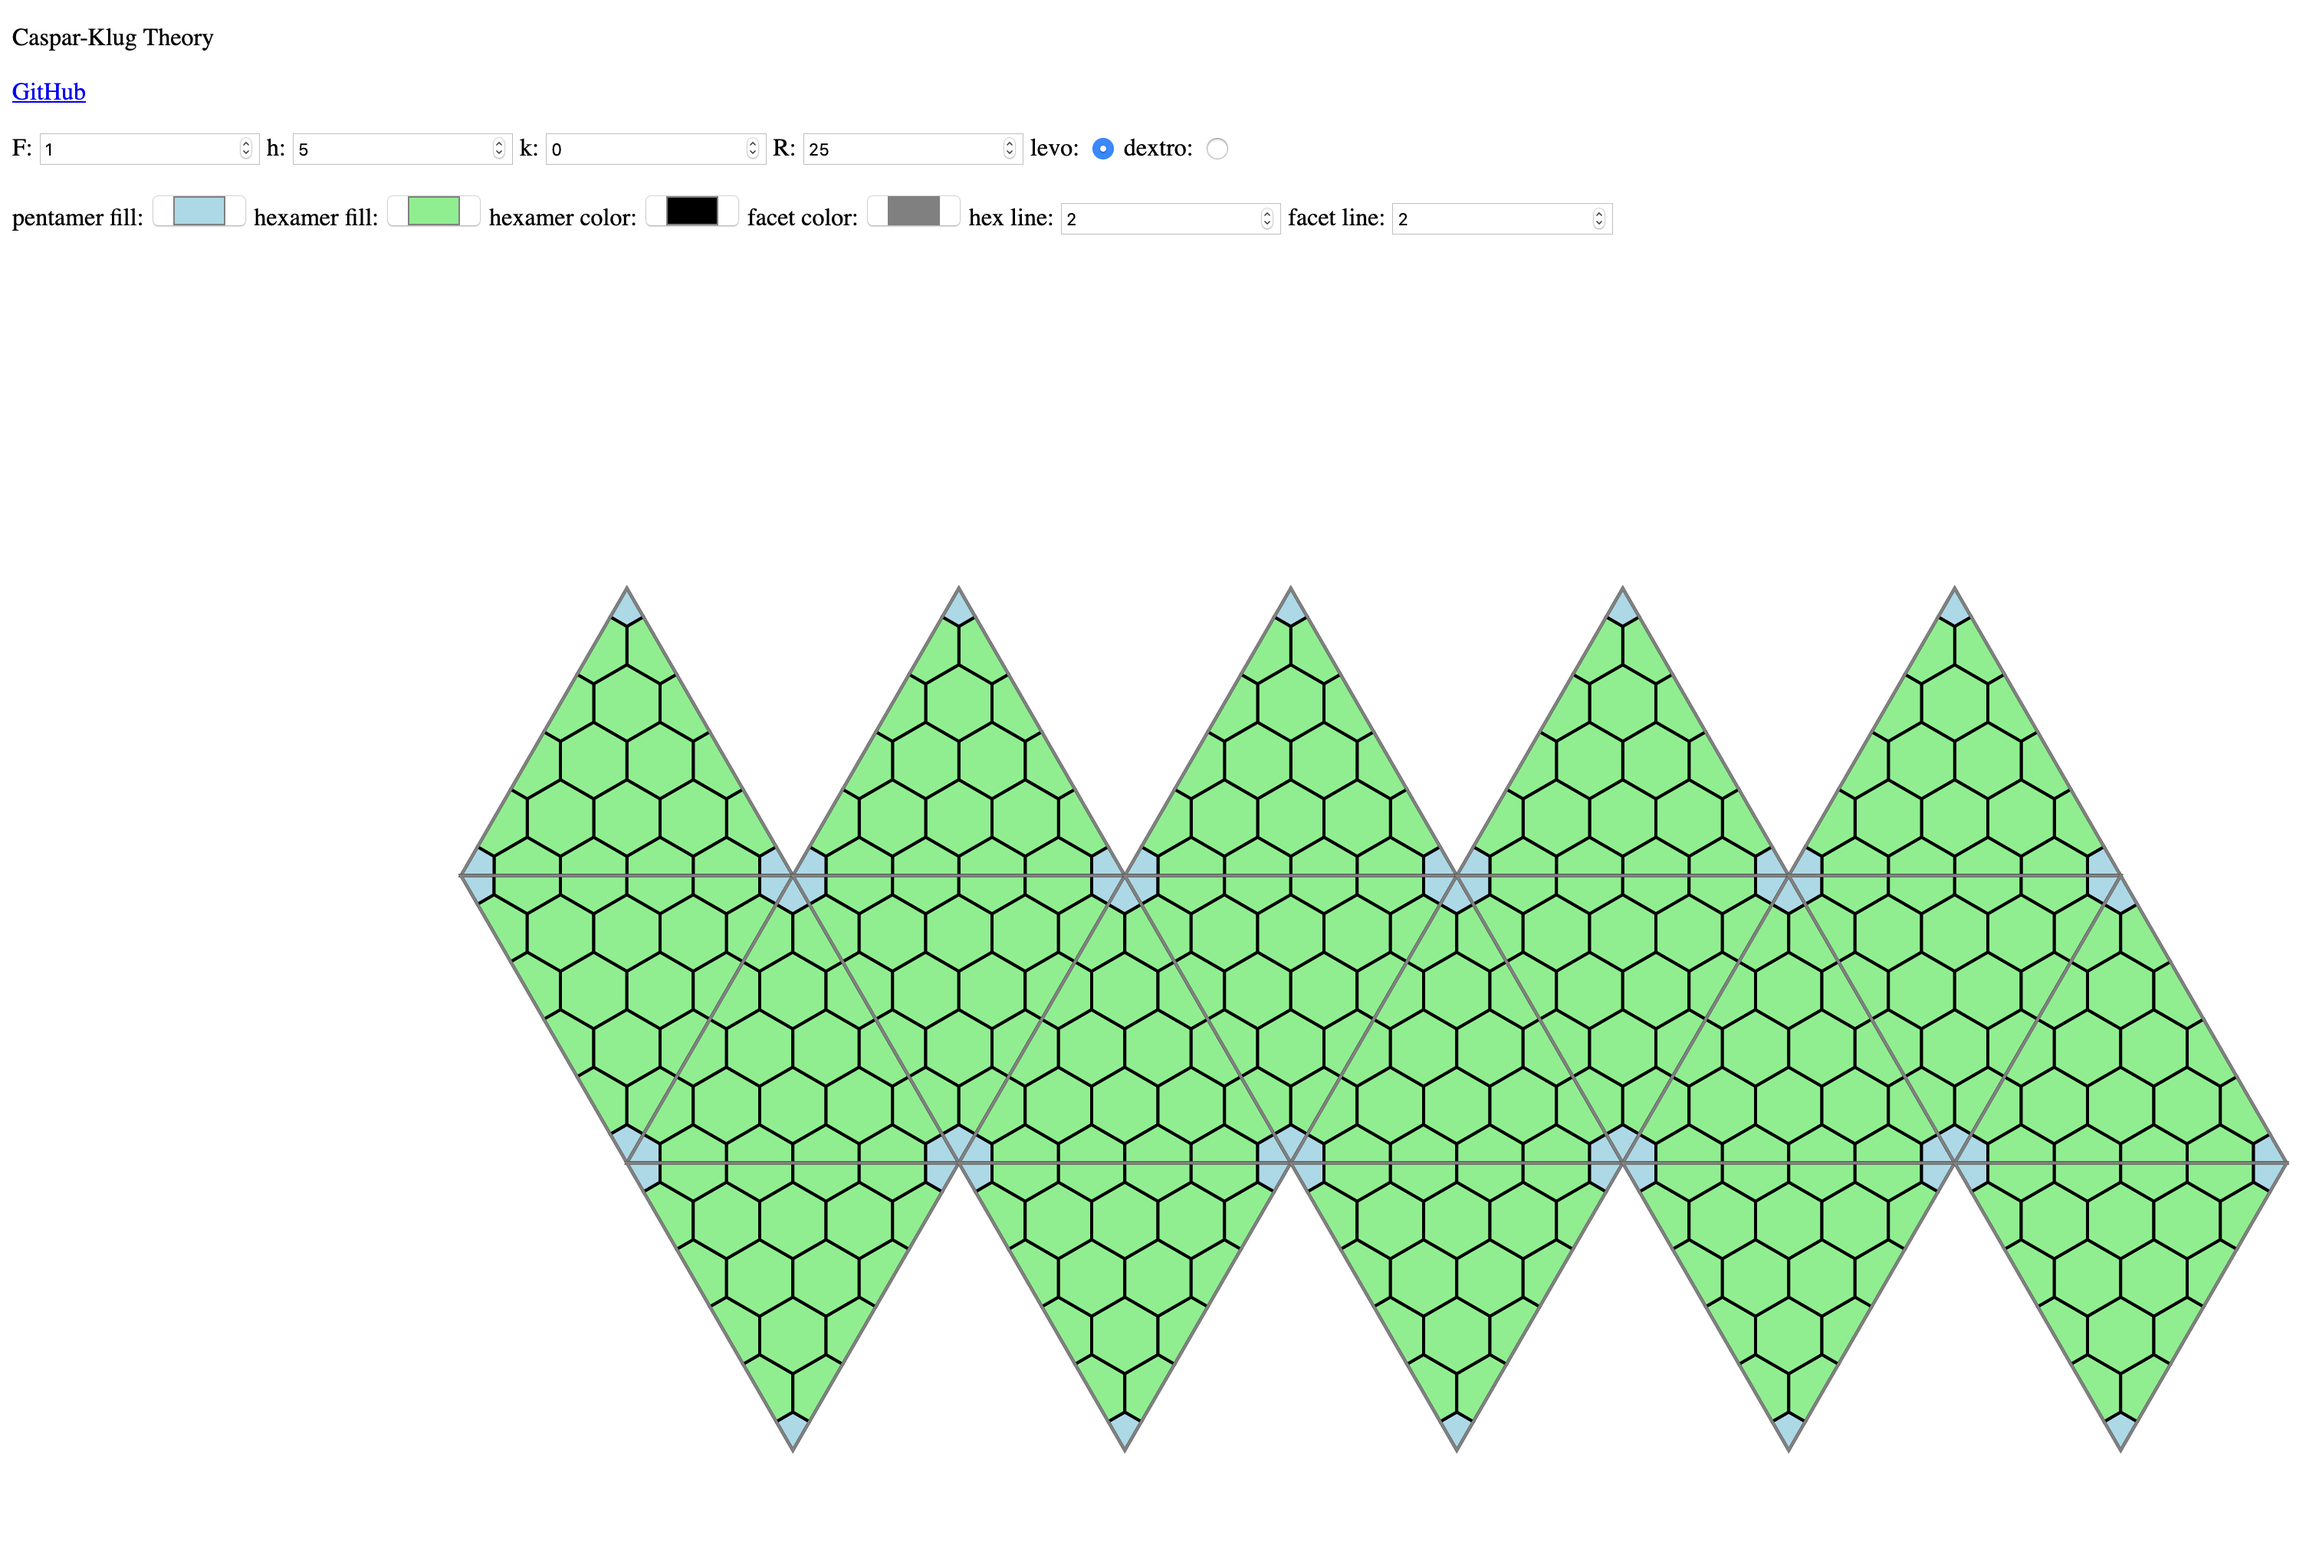
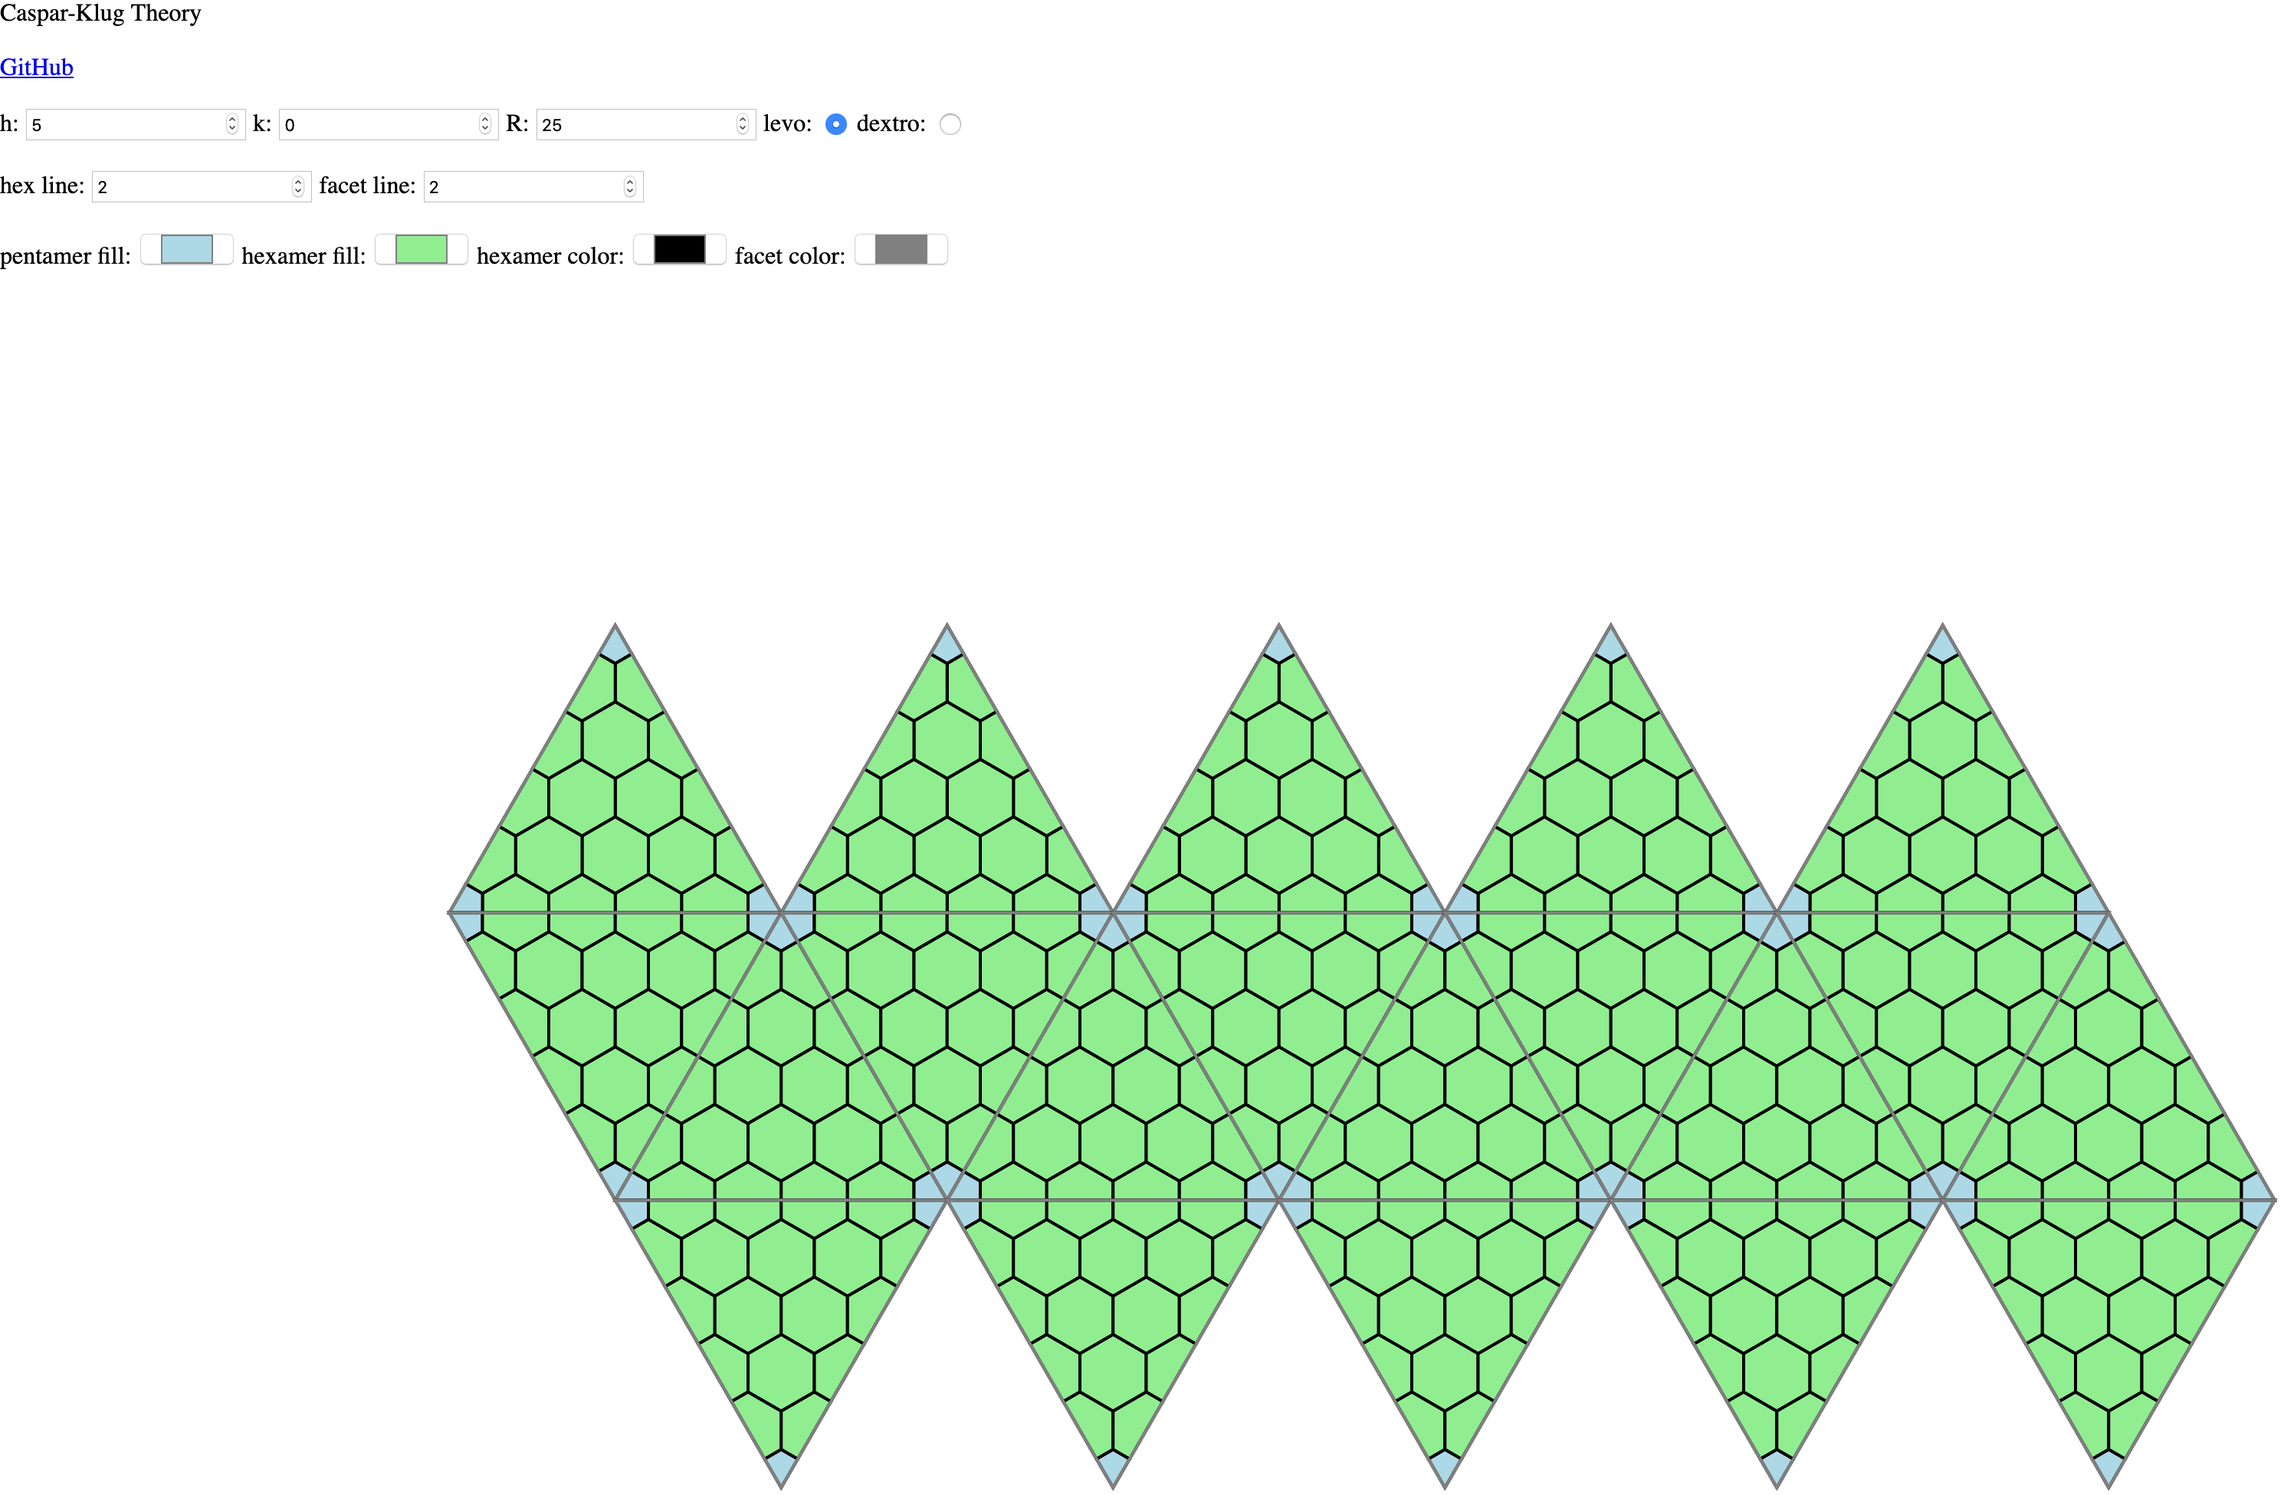
no need for F parameter

diff --git a/capsid.html b/capsid.html
@@ -24,7 +24,6 @@
     <p><a href="https://github.com/dnanto/capsid">GitHub</a></p>
     <div>
         <div>
-            <label for="F">F: </label><input type="number" name="F" id="F" step="1" value="1" , min="0">
             <label for="h">h: </label><input type="number" name="h" id="h" step="1" value="5" , min="0">
             <label for="k">k: </label><input type="number" name="k" id="k" step="1" value="0" , min="0">
             <label for="R">R: </label><input type="number" name="R" id="R" step="1" value="25" , min="0">
@@ -33,14 +32,17 @@
         </div>
         <br>
         <div>
-            <label for="penfill">pentamer fill: </label><input type="color" id="penfill" name="penfill" value="#ADD8E6">
-            <label for="hexfill">hexamer fill: </label><input type="color" id="hexfill" name="hexfill" value="#90EE90">
-            <label for="hexoutl">hexamer color: </label><input type="color" id="hexoutl" name="hexoutl" value="#000000">
-            <label for="fctoutl">facet color: </label><input type="color" id="fctoutl" name="fctoutl" value="#808080">
             <label for="hexline">hex line: </label>
             <input type="number" name="hexline" id="hexline" step="1" value="2" min="0">
             <label for="fctline">facet line: </label>
             <input type="number" name="fctline" id="fctline" step="1" value="2" min="0">
+        </div>
+        <br>
+        <div>
+            <label for="penfill">pentamer fill: </label><input type="color" id="penfill" name="penfill" value="#ADD8E6">
+            <label for="hexfill">hexamer fill: </label><input type="color" id="hexfill" name="hexfill" value="#90EE90">
+            <label for="hexoutl">hexamer color: </label><input type="color" id="hexoutl" name="hexoutl" value="#000000">
+            <label for="fctoutl">facet color: </label><input type="color" id="fctoutl" name="fctoutl" value="#808080">
         </div>
     </div>
     <canvas id="canvas" resize>

diff --git a/js/capsid.js b/js/capsid.js
@@ -1,6 +1,6 @@
 var net;
 let params = [
-    "F", "h", "k", "R",
+    "h", "k", "R",
     "levo", "dextro",
     "penfill", "hexfill",
     "hexoutl", "fctoutl",
@@ -11,7 +11,7 @@ paper.install(window);
 
 window.onload = function () {
     paper.setup("canvas");
-    draw(1, 5, 0, 25, 1, "#ADD8E6", "#90EE90", "#000000", "#808080", 2, 2);
+    draw(5, 0, 25, 1, "#ADD8E6", "#90EE90", "#000000", "#808080", 2, 2);
     params.forEach(function (e) {
         document.getElementById(e).addEventListener("change", redraw);
     });
@@ -19,8 +19,7 @@ window.onload = function () {
 
 function redraw(event) {
     net.remove();
-    var [F, h, k, R, r, pf, hf, ho, fo, hl, fl] = [
-        parseInt(document.getElementById("F").value),
+    var [h, k, R, r, pf, hf, ho, fo, hl, fl] = [
         parseInt(document.getElementById("h").value),
         parseInt(document.getElementById("k").value),
         parseInt(document.getElementById("R").value),
@@ -32,10 +31,10 @@ function redraw(event) {
         parseInt(document.getElementById("hexline").value),
         parseInt(document.getElementById("fctline").value)
     ];
-    draw(F, h, k, R, r, pf, hf, ho, fo, hl, fl);
+    draw(h, k, R, r, pf, hf, ho, fo, hl, fl);
 }
 
-function draw(F, h, k, R, r, pf, hf, ho, fo, hl, fl) {
+function draw(h, k, R, r, pf, hf, ho, fo, hl, fl) {
     let n = h + k + 1;
 
     let p = Array.from(walk(0, k, h, k, R));
